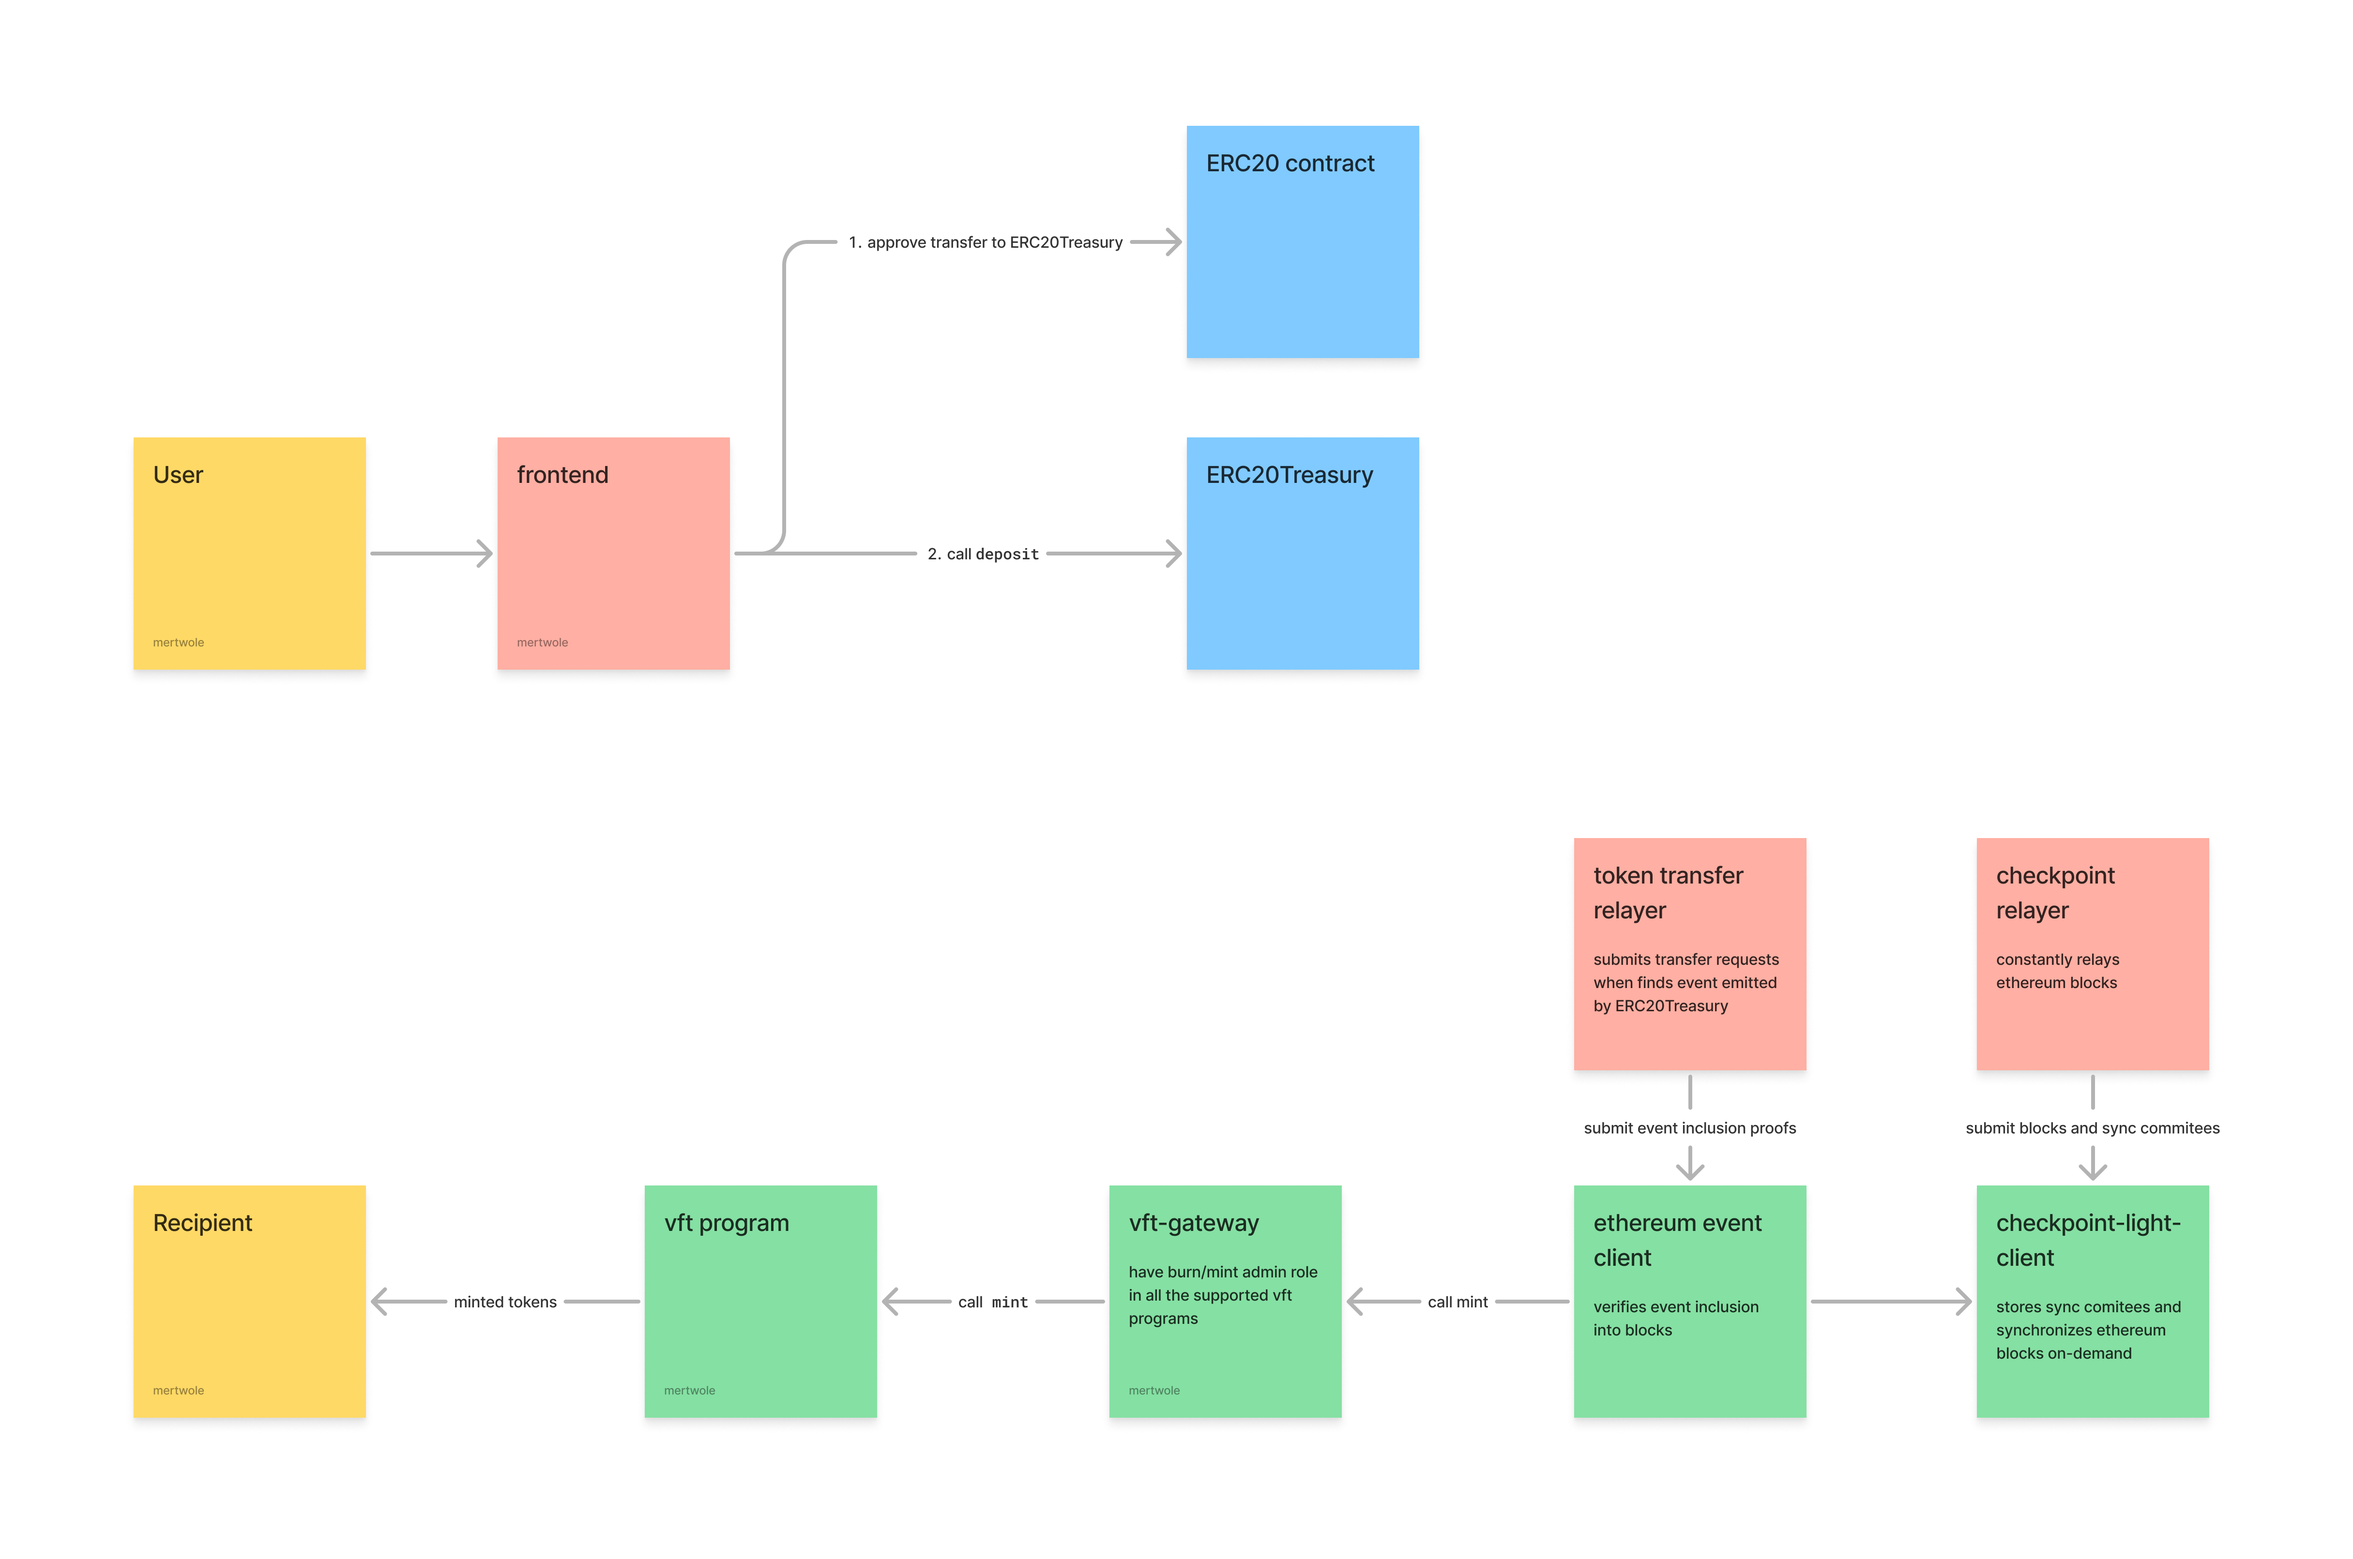
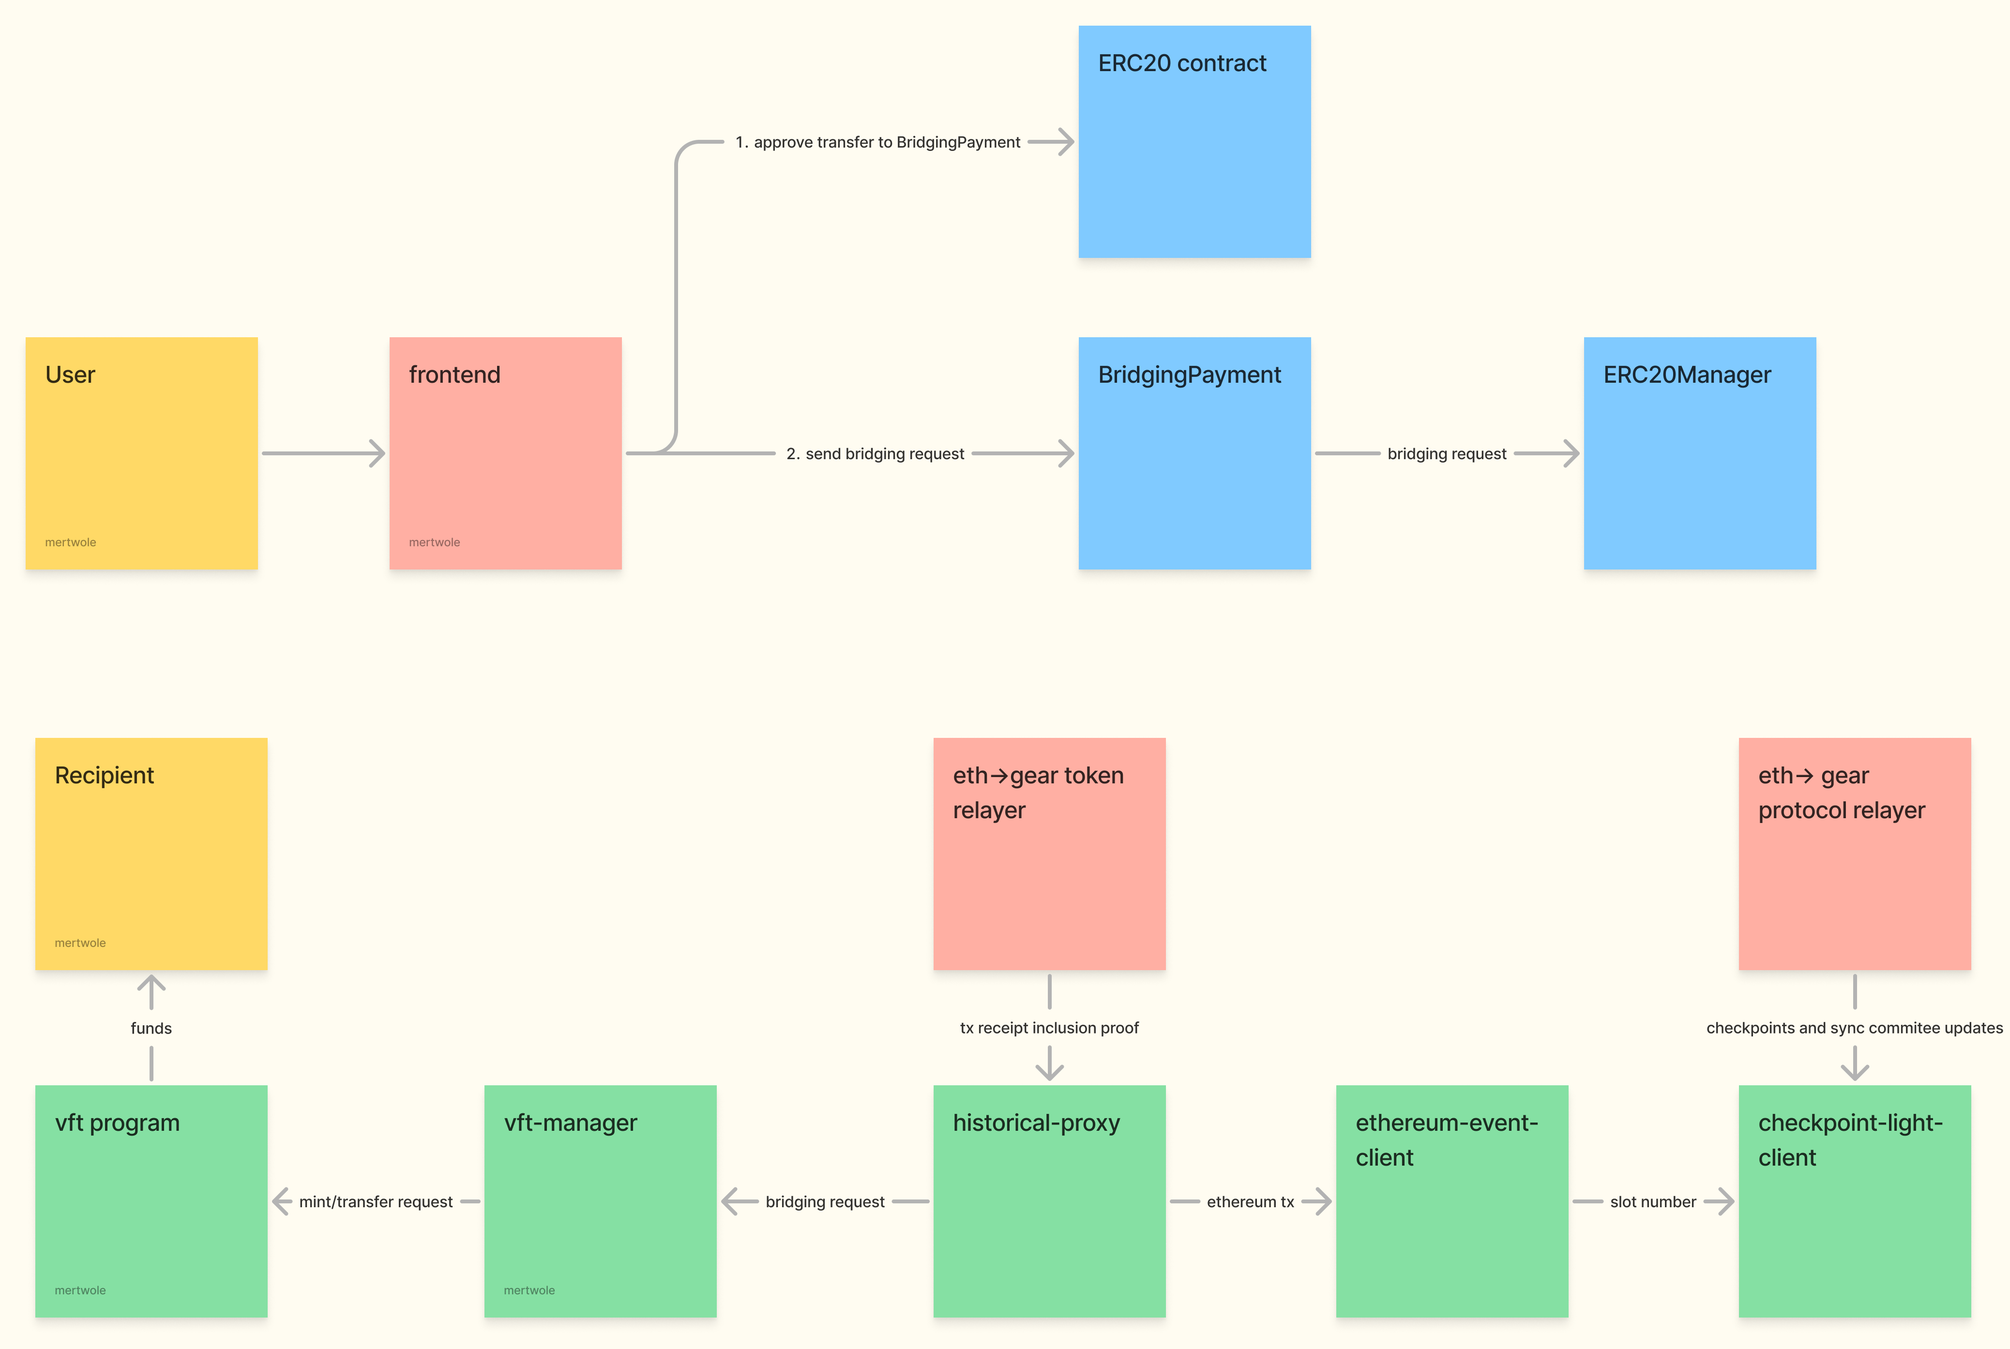
chore(docs): Update `README` (#250)

diff --git a/README.md b/README.md
@@ -16,66 +16,73 @@ Gear Bridge is an implementation of a trustless ZK-based cross-chain bridge faci
 > [!WARNING]
 > One of the conclusions of this audit was that malicious node which relayer is connected to can cause the proof generation process to be halt. So all deployed relayers **MUST** use their own dedicated gear node which is known to be non-malicious.
 
-## High-Level Bi-Directional `Gear <-> Eth` Design
+## High-Level Design
 
-The **Gear <-> Eth** transfer protocol allows relaying messages from Gear-based blockchains to Ethereum and back. These messages consist of generic data defined by protocols built on top of the bridge. The protocol doesn't guarantee the order in which messages are relayed.
+The **Gear <-> Eth** transfer protocol allows relaying messages from Gear-based blockchains to Ethereum and back. These messages contain generic data defined by protocols built on top of the bridge. The protocol doesn't guarantee the order in which messages are relayed.
 
 This repository contains the implementation of a token bridging protocol built on top of a more generic messaging protocol.
 
-### Components Present in `Gear <-> Eth` Bridge
+### Components of `Gear <-> Eth` bridge
 
-![Components of Gear <-> Eth Bridge](images/block_diagram.png)
+![Components of Gear <-> Eth Bridge](images/block_diagram_simplified.png)
+
+<details>
+    <summary>Detailed diagram</summary>
+    <img src="images/block_diagram.png">
+</details>
 
 #### Protocol part
 
 - **Pallet-Gear-Eth-Bridge Built-in Actor**: a [Built-in Actor](https://wiki.gear-tech.io/docs/gear/features/builtin-actors) - the entry point into the generic bridging protocol. Receives messages from any actor on the Gear network and relays them to `pallet-gear-eth-bridge`.
 - **Pallet-Gear-Eth-Bridge**: Receives messages from the `pallet-gear-eth-bridge` built-in actor and stores them in the binary Merkle trie. This Merkle trie gets slashed at the end of each `ERA`. Also stores and updates hashed `GRANDPA` authority set.
-- **Gear -> Eth Relayer**: Reads Gear state, generates ZK-proofs, and submits them to Ethereum. Capable of creating two types of ZK-proofs: proof of authority set changes and proof of inclusion of Merkle trie root into the storage of `pallet-gear-eth-bridge`. Proofs of authority set changes are intermediate and stored in on-chain `proof storage` while proofs of Merkle trie root inclusion are submitted to Ethereum.
-- **Proof Storage**: Works as on-chain proof database and stores intermediate proofs generated by `gear -> eth relayer`.
-- **Relayer Contract**: Accepts proofs of Merkle trie root inclusion and, if they're valid, stores Merkle trie roots in memory.
-- **Gnark-Verifier**: A contract capable of verifying `plonk` proofs created by [gnark](https://github.com/Consensys/gnark). The submitted proofs are [plonky2](https://github.com/0xPolygonZero/plonky2) proofs wrapped by `gnark`.
-- **Message Queue Contract**: Used to recover messages from Merkle tries. A user can request a message to be relayed further onto Ethereum by providing proof of inclusion of a message actually included in the Merkle trie, given that this Merkle root was already relayed by `backend` (or another party). This is also the exit point of the generic Gear -> Eth bridging protocol.
-- **Ethereum Block client**: Lazy ethereum light client that maintains `sync committee` validator list and is capable of verifying block headers using it.
-- **Eth -> Gear relayer**: Relayer that monitors `sync committee` changes and blocks signed by it on Ethereum and updates state of `ethereum block client` using it.
+- **Relayer(proxy)[^1]**: Accepts proofs of Merkle trie root inclusion and, if they're valid, stores Merkle trie roots in memory. Deployed behind [ERC-1967 Proxy](https://eips.ethereum.org/EIPS/eip-1967).
+- **Verifier**: A contract capable of verifying `plonk` proofs created by [gnark](https://github.com/Consensys/gnark). The submitted proofs are [plonky2](https://github.com/0xPolygonZero/plonky2) proofs wrapped by `gnark`.
+- **MessageQueue(proxy)[^1]**: Used to recover messages from Merkle tries. A user can request a message to be relayed further onto Ethereum by providing proof of inclusion of a message actually included in the Merkle trie, given that this Merkle root was already relayed by `gear->eth protocol relayer` (or another party). This is also the exit point of the generic Gear -> Eth bridging protocol.
+- **Checkpoint-Light-Client**: Lazy ethereum light client that maintains `sync committee` validator list and is capable of verifying block headers using it.
+- **Ethereum-Event-Client**: Program on Gear that's capable of verifying that some event was included into some block. To check validity of the block it requests data from `checkpoint-light-client`.
+- **Historical-Proxy**: Program on Gear that maintains historical `ethereum-event-client` program addresses and redirects requests to a `ethereum-event-client` responsible of processing requested transaction. Serves as an exit point from core Ethereum -> Gear protocol.
+- **Gear -> Eth Protocol Relayer**: Reads Gear state, generates ZK-proofs, and submits them to Ethereum. Capable of creating two types of ZK-proofs: proof of authority set changes and proof of inclusion of Merkle trie root into the storage of `pallet-gear-eth-bridge`. Proofs of authority set changes are intermediate and stored in on-chain `proof storage` while proofs of Merkle trie root inclusion are submitted to Ethereum.
+- **Eth -> Gear Protocol Relayer**: Relayer that monitors `sync committee` changes and blocks signed by it on Ethereum and updates state of `checkpoint-light-client` using it.
 
 #### Token transfer part
 
 - **VFT**: A program capable of transferring, burning, and minting `vft` tokens. It repeats the implementation of the `ERC20` standard on the Gear network, the standard implementation `vft` can be found [here](https://github.com/gear-foundation/standards/tree/master).
-- **VFT Gateway**: Receives `vft` tokens from users, burns them, and emits a message to the `pallet-gear-eth-bridge` built-in actor. This message contains information about which token is being bridged, how much of it, and the recipient of funds on the Ethereum network. Also manages `Eth -> Gear` token transfers by verifying ethereum events using `ethereum event client` program.
-- **ERC20 Treasury**: A treasury that accepts user funds and releases them. Release can only be triggered by a message relayed over the bridge from the `vft gateway`.
-- **Bridging Payment**: Program on Gear and smart-contract on Ethereum that have the same functions. When bridging request is sent to them, they collect fees and relay this request to the corresponding smart-contract/program responsible of executing this request. Then some `token transfer relayer` can observe events signaling that request have been processed and fee is paid and process this request on the other chain, using its own funds as tx fees. `Bridging payment` services are fully in control of relayer that've deployed them, so to perform bridging using them one should trust the relayer that've deployed them.
-- **Ethereum Event client**: Program on Gear that's capable of verifying that some event was included into some block. To check validity of the block it requests data from `ethereum block client`.
-- **Gear -> Eth Token Transfer Relayer** and **Eth -> Gear Token Transfer Relayer**: These relayers hook to the events produced by `bridging payment` services and perform cross-chain actions to guarantee message delivery. For example, `gear -> eth token transfer relayer` collects bridging fees from user on Gear. When merkle root that contain this message will be relayed to Ethereum, this relayer will send transaction to the `message queue contract` that will trigger transfer from `ERC20 treasury` to the user.
+- **VFT-Manager**: Receives `vft` tokens from users, burns/locks them, and emits a message to the `pallet-gear-eth-bridge` built-in actor. This message contains information about which token is being bridged, how much of it, and the recipient of funds on the Ethereum network. Also manages `Eth -> Gear` token transfers by verifying ethereum events using `historical-proxy` program and minting/unlocking corresponding tokens. It can work with both Ethereum and Gear supplied tokens. When token supply is based on Ethereum it will perform burns and mints of corresponding `VFT` tokens. When token supply is based on Gear it will perform locks and unlocks of corresponding `VFT` tokens.
+- **ERC20Manager(proxy)[^1]**: Mirroring behaviour of `vft-manager` but on Ethereum side and without sending request to a `pallet-gear-eth-bridge`.
+- **Bridging Payment**: Program on Gear and smart-contract on Ethereum that have the same functions. When bridging request is sent to them, they collect fees and relay this request to the corresponding smart-contract/program responsible of executing this request. Then some `token relayer` can observe events signaling that request have been processed and fee is paid and process this request on the other chain, using its own funds as tx fees. `bridging payment` services are fully in control of relayer that've deployed them, so to perform bridging using them one should trust the owner.
+- **Gear -> Eth Token Relayer** and **Eth -> Gear Token Relayer**: These relayers hook to the events produced by `bridging payment` services and perform cross-chain actions to guarantee message delivery. For example, `gear -> eth token relayer` collects bridging fees from user on Gear. When merkle root that contain this message will be relayed to Ethereum, this relayer will send transaction to the `MessageQueue` that will trigger transfer from `ERC20Manager` to the user.
 
-### Workflow of `Gear -> Ethereum` Token[^1] Transfer
+### Workflow of `Gear -> Ethereum` Token[^2] Transfer
 
 ![Workflow of Gear -> Eth Transfer](images/gear_eth_transfer.png)
 
 - The user submits his bridging request to `frontend`
-- `frontend` submits `approve` call to the `vft` program. Approve should allow `vft-gateway` to spend amount of tokens that user have requested to bridge.
+- `frontend` submits `approve` call to the `vft` program. Approve should allow `vft-manager` to spend amount of tokens that user have requested to bridge.
 - `frontend` submits user request to the `bridging-payment`.
-- `bridging-payment` takes fee and submits a message to the `vft-gateway` to initiate bridging.
-- The `vft-gateway` burns `vft` tokens and emits a message to the `pallet-gear-eth-bridge` built-in actor.
+- `bridging-payment` takes fee and submits a message to the `vft-manager` to initiate bridging.
+- The `vft-manager` burns/locks `vft` tokens and emits a message to the `pallet-gear-eth-bridge` built-in actor.
 - The `pallet-gear-eth-bridge` built-in actor relays the message to `pallet-gear-eth-bridge`.
 - The `pallet-gear-eth-bridge` stores the message in a Merkle trie.
-- Eventually, the `relayer` (or another party) relays the message to the `relayer contract`, and it gets stored there.
-- `message relayer` sees that user message was relayed and submits a Merkle proof of inclusion to the `message queue contract`.
-- The `message queue contract` reads the Merkle root from the `relayer contract`, checks the Merkle proof, and relays the message to the `ERC20 treasury`.
-- The `ERC20 treasury` releases funds to the user's account on Ethereum.
+- Eventually, the `gear->eth protocol relayer` (or another party) relays the message to the `Relayer` contract, and it gets stored there.
+- `gear->eth token relayer` sees that user message was relayed and submits a Merkle proof of inclusion to the `MessageQueue` contract.
+- The `MessageQueue` contract reads the Merkle root from the `Relayer` contract, checks the Merkle proof, and relays the message to the `ERC20Manager`.
+- The `ERC20Manager` releases funds to the user's account on Ethereum.
 
-### Workflow of `Ethereum -> Gear` Token[^1] Transfer
+### Workflow of `Ethereum -> Gear` Token[^2] Transfer
 
 ![Workflow of Eth -> Gear Transfer](images/eth_gear_transfer.png)
 
 - The user submits his bridging request to `frontend`
-- `frontend` submits `approve` call to the corresponding `ERC20 contract`. Approve should allow `ERC20 Treasury` to spend amount of tokens that user have requested to bridge.
-- `frontend` submits user request to the `ERC20 Treasury`.
-- The `ERC20 Treasury` locks `ERC20` tokens on his balance and emits an event.
-- Eventually, the `checkpoint relayer` (or another party) sumbits to `checkpoint-light-client` ethereum block which has block number bigger than one where event have been emitted.
-- Eventually, the `token transfer relayer` (or another party) submits this event to `ethereum-event-client`
-- `ethereum event client` send request to mint tokens to `vft-gateway`
-- `vft-gateway` sends message to a `vft` program that corresponds to a `ERC20` token that've been locked in step 4.
-- `vft` program mints tokens to a user's address.
+- `frontend` submits `approve` call to the corresponding `ERC20` contract. Approve should allow `BridgingPayment` to spend amount of tokens that user have requested to bridge.
+- `frontend` submits user request to the `BridgingPayment`.
+- The `ERC20Manager` locks/burns `ERC20` tokens and emits an event.
+- Eventually, the `eth->gear protocol relayer` (or another party) sumbits to `checkpoint-light-client` ethereum block which has block number bigger than one where event have been emitted.
+- Eventually, the `eth->gear token relayer` (or another party) submits this event to `historical-proxy`
+- `historical-proxy` verifies this event by sending a message to `ethereum-event-client`.
+- `ethereum-event-client` verifies that block where event is present is a valid finalized block on ethereum by calling `checkpoint-light-client`.
+- `historical-proxy` routes user bridging request to `vft-manager`
+- `vft-manager` sends message to a `vft` program that corresponds to a `ERC20` token that've been locked/burned in step 4. This message is either `transfer`(in the case when token supply is on Gear) or `mint`(in the case when token supply is on Ethereum).
+- `vft` program mints/transfers tokens to a user address.
 
 ## Build and run
 
@@ -101,13 +108,15 @@ foundryup
 
 Build workspace:
 ```sh
-cargo build --release
+cargo build --release -p relayer
 ```
 
 And then run
 ```sh
-cargo run --release -- --help
+./target/release/relayer --help
 ```
-to see required parameters to start relayer.
+to see required parameters to start different kinds of relayers.
 
-[^1]: Gear itself is not a blockchain network and has no native token. This refers to the token of any network built on Gear technology, such as Vara.
+[^1]: (proxy) means that this contract is deployed behind [ERC-1967 Proxy](https://eips.ethereum.org/EIPS/eip-1967)
+
+[^2]: Gear itself is not a blockchain network and has no native token. This refers to the token of any network built on Gear technology, such as Vara.
